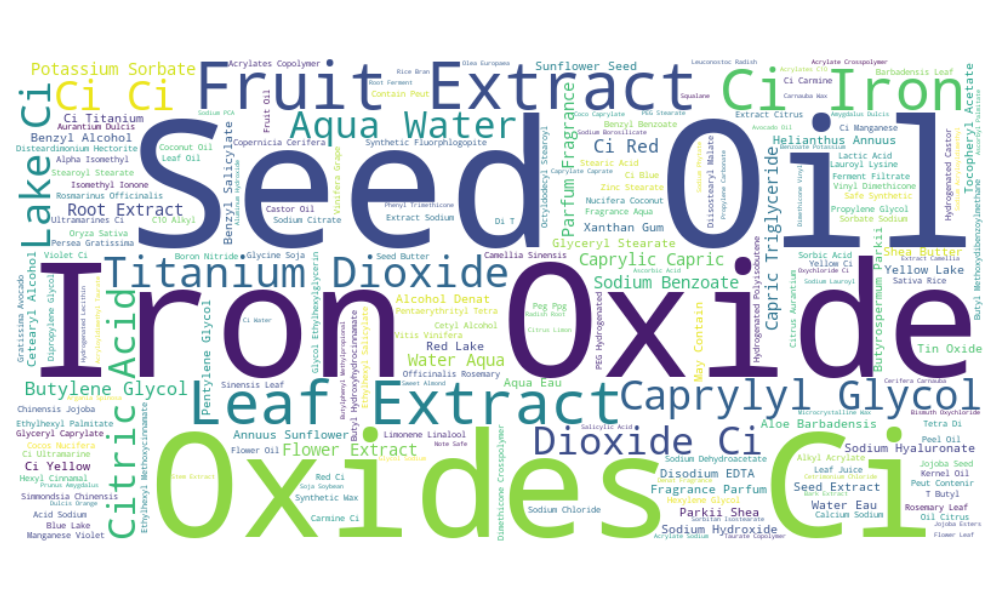
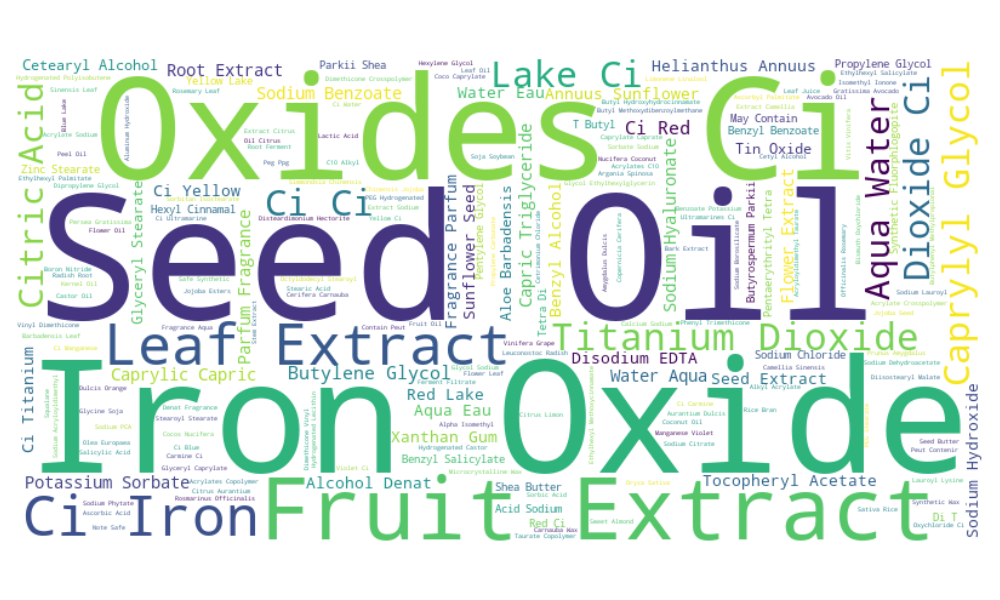
streamlit

diff --git a/main.py b/main.py
@@ -9,6 +9,7 @@ from plotly import colors
 
 # Cargar datos (asumiendo que el archivo "product_info.csv" se encuentra en el mismo directorio)
 data = pd.read_csv("product_info.csv")
+reviews = pd.read_csv("reviews.csv")
 
 # Establecer título de la página
 st.set_page_config(page_title="Sistema de Recomendación Sephora")
@@ -28,9 +29,11 @@ nav_selection = sidebar.radio("Navegación", nav_options)
 
 # Pagina 1 = Home
 if nav_selection == "Home":
-    st.header('Sistema de recomendación de productos',)
-    st.markdown('Encontramos tu próximo producto ideal.')
-    st.image('img_seph.png', width=800)
+    st.title('Recomendación de productos',)
+    st.write('*¡Bienvenido a nuestro sitio de recomendaciones personalizadas de Sephora!*')
+    st.image('labiales.jpeg', width=800)
+    st.write('Descubre productos que se adaptan perfectamente a tus gustos y necesidades con nuestro sistema de recomendación avanzado. ')
+    
 
     st.header('Problemática y objetivos')
     st.markdown('¿Cansado de perderte en el mar de productos de belleza? Analizamos tu historial y preferencias para ofrecerte sugerencias personalizadas.')
@@ -43,39 +46,41 @@ if nav_selection == "Home":
     st.markdown('Para este proyecto se utiliza una base de 8494 productos y 1.094.411 reviews que realizaron usuarios acerca de los mismos.')
     st.markdown("A continuación podemos ver cómo se componen los set de datos utilizados:")
     st.dataframe(data.head())
+    st.dataframe(reviews.head())
     
 
     # Description of the columns for "Products" table
-    st.subheader("Descripción de las columnas - Productos")
-    st.markdown("\n **product_id** : The unique identifier for the product from the site")
-    st.markdown("\n **product_name** : The full name of the product")
-    st.markdown("\n **brand_id** : The unique identifier for the product brand from the site")
-    st.markdown("\n **brand_name** : The full name of the product brand")
-    st.markdown("\n **loves_count** : The number of people who have marked this product as a favorite")
-    st.markdown("\n **rating** : The average rating of the product based on user reviews")
-    st.markdown("\n **reviews** : The number of user reviews for the product")
-    st.markdown("\n **size** : The size of the product, which may be in oz, ml, g, packs, or other units depending on the product type")
-    st.markdown("\n **variation_type** : The type of variation parameter for the product (e.g. Size, Color)")
-    st.markdown("\n **variation_value** : The specific value of the variation parameter for the product (e.g. 100 mL, Golden Sand)")
-    st.markdown("\n **variation_desc** : A description of the variation parameter for the product (e.g. tone for fairest skin)")
-    st.markdown("\n **ingredients** : A list of ingredients included in the product, for example: [‘Product variation 1:’, ‘Water, Glycerin’, ‘Product variation 2:’, ‘Talc, Mica’] or if no variations [‘Water, Glycerin’]")
-    st.markdown("\n **price_usd** : The price of the product in US dollars")
-    st.markdown("\n **value_price_usd** : The potential cost savings of the product, presented on the site next to the regular price")
-    st.markdown("\n **sale_price_usd** : The sale price of the product in US dollars")
-    st.markdown("\n **limited_edition** : Indicates whether the product is a limited edition or not (1-true, 0-false)")
-    st.markdown("\n **new** : Indicates whether the product is new or not (1-true, 0-false)")
-    st.markdown("\n **online_only** : Indicates whether the product is only sold online or not (1-true, 0-false)")
-    st.markdown("\n **out_of_stock** : Indicates whether the product is currently out of stock or not (1 if true, 0 if false)")
-    st.markdown("\n **sephora_exclusive** : Indicates whether the product is exclusive to Sephora or not (1 if true, 0 if false)")
-    st.markdown("\n **highlights** : A list of tags or features that highlight the product's attributes (e.g. [‘Vegan’, ‘Matte Finish’])")
-    st.markdown("\n **primary_category** : First category in the breadcrumb section")
-    st.markdown("\n **secondary_category** : Second category in the breadcrumb section")
+    st.subheader("Descripción de las columnas - Products")
+    st.markdown("\n *product_id* : The unique identifier for the product from the site")
+    st.markdown("\n *product_name* : The full name of the product")
+    st.markdown("\n *brand_id* : The unique identifier for the product brand from the site")
+    st.markdown("\n *brand_name* : The full name of the product brand")
+    st.markdown("\n *loves_count* : The number of people who have marked this product as a favorite")
+    st.markdown("\n *rating* : The average rating of the product based on user reviews")
+    st.markdown("\n *reviews* : The number of user reviews for the product")
+    st.markdown("\n *size* : The size of the product, which may be in oz, ml, g, packs, or other units depending on the product type")
+    st.markdown("\n *variation_type* : The type of variation parameter for the product (e.g. Size, Color)")
+    st.markdown("\n *variation_value* : The specific value of the variation parameter for the product (e.g. 100 mL, Golden Sand)")
+    st.markdown("\n *variation_desc* : A description of the variation parameter for the product (e.g. tone for fairest skin)")
+    st.markdown("\n *ingredients* : A list of ingredients included in the product, for example: [‘Product variation 1:’, ‘Water, Glycerin’, ‘Product variation 2:’, ‘Talc, Mica’] or if no variations [‘Water, Glycerin’]")
+    st.markdown("\n *price_usd* : The price of the product in US dollars")
+    st.markdown("\n *value_price_usd* : The potential cost savings of the product, presented on the site next to the regular price")
+    st.markdown("\n *sale_price_usd* : The sale price of the product in US dollars")
+    st.markdown("\n *limited_edition* : Indicates whether the product is a limited edition or not (1-true, 0-false)")
+    st.markdown("\n *new* : Indicates whether the product is new or not (1-true, 0-false)")
+    st.markdown("\n *online_only* : Indicates whether the product is only sold online or not (1-true, 0-false)")
+    st.markdown("\n *out_of_stock* : Indicates whether the product is currently out of stock or not (1 if true, 0 if false)")
+    st.markdown("\n *sephora_exclusive* : Indicates whether the product is exclusive to Sephora or not (1 if true, 0 if false)")
+    st.markdown("\n *highlights* : A list of tags or features that highlight the product's attributes (e.g. [‘Vegan’, ‘Matte Finish’])")
+    st.markdown("\n *primary_category* : First category in the breadcrumb section")
+    st.markdown("\n *secondary_category* : Second category in the breadcrumb section")
 #####################################################################################################################################
 
 
 # Pagina 2 = Graficos
 elif nav_selection == 'Visualizando los datos':
     st.title('Visualizando los datos')
+    st.image('IMG_1634-scaled.png', width=800)
 
     custom_palette = ['#FFC0CB', '#FFB6C1', '#FF69B4', '#FF1493', '#DB7093', '#FFB5C5', '#FFAEB9', '#FF82AB', '#FF34B3']
 
@@ -94,7 +99,7 @@ elif nav_selection == 'Visualizando los datos':
         fig.update_layout(xaxis_title='Count', yaxis_title='Category', yaxis={'categoryorder':'total ascending'})
         return fig
     
-    st.title('Gráfico de Categorías Principales')
+    st.title('Categorías de productos')
     fig = create_primary_category_chart(data)
     st.plotly_chart(fig)
 
@@ -119,7 +124,7 @@ elif nav_selection == 'Visualizando los datos':
     st.plotly_chart(fig)
         # Calcular la correlación
     correlation = data['rating'].corr(data['loves_count'])
-    st.markdown(f"**Correlation between rating and loves_count:** {correlation:.2f}")
+    st.markdown(f"*Correlation between rating and loves_count:* {correlation:.2f}")
     st.markdown('A medida que el rating aumenta, el "Loves Count" también tiende a aumentar. Existe una tendencia ascendente clara: los productos con ratings más altos tienden a ser agregados a favoritos con mayor frecuencia. Esto sugiere una correlación positiva entre el rating de un producto y cuántas veces es agregado a favoritos.')
 
     #3
@@ -131,8 +136,7 @@ elif nav_selection == 'Visualizando los datos':
                             )
 
         fig.update_layout(xaxis_title='Rating', yaxis_title='Frequency')
-        fig.update_traces(marker_line_color='black', marker_line_width=1)
-
+        fig.update_traces(marker_line_color='white', marker_line_width=1)
         return fig
     
     st.title('Histograma de Ratings')
@@ -141,26 +145,7 @@ elif nav_selection == 'Visualizando los datos':
     mean_rating = data['rating'].mean()
     st.write(f"Mean Rating: {mean_rating:.2f}")
 
-
-    #4 
-    def create_countplot(data):
-        plt.figure(figsize=(8, 4))
-        custom_palette = ['#FFC0CB', '#D8BFD8']
-        sns.countplot(x='new', hue='sephora_exclusive', data=data,  palette=custom_palette)
-        plt.xlabel('Nuevo Producto')
-        plt.ylabel('Cantidad')
-        plt.title('Nuevos productos exclusivos de Sephora')
-        plt.legend(title='Sephora Exclusive', loc='upper right')
-        plt.tight_layout()
-        return plt
-
-
-    st.title('Nuevos productos exclusivos de Sephora')
-    fig = create_countplot(data)
-    st.pyplot(fig)
-
-
-    #5
+     #4
     def create_sephora_exclusive_chart(data):
 
         df_exclusive = data[data['sephora_exclusive'] == True]
@@ -186,11 +171,12 @@ elif nav_selection == 'Visualizando los datos':
         return fig
 
 
-    st.title('Productos Exclusivos y No Exclusivos')
+    st.title('Productos exclusivos de Sephora')
     fig = create_sephora_exclusive_chart(data)
     st.plotly_chart(fig)
 
-    #6
+
+ #6
 
     def create_online_only_chart(data):
         df_online_only = data[data['online_only'] == True]
@@ -216,7 +202,7 @@ elif nav_selection == 'Visualizando los datos':
         return fig
 
 
-    st.title('Productos Online y No Online')
+    st.title('Productos exclusivamente online')
     fig = create_online_only_chart(data)
     st.plotly_chart(fig)
 
@@ -227,7 +213,7 @@ elif nav_selection == 'Visualizando los datos':
 
         st.write("### Ejemplos de productos exclusivamente online:")
         for index, row in productos_exclusivos_online.iterrows():
-            st.write(f"**{row['product_name']}** - {row['brand_name']}")
+            st.write(f"*{row['product_name']}* - {row['brand_name']}")
     show_online_only_products(data)
 
 
@@ -269,21 +255,8 @@ elif nav_selection == 'Visualizando los datos':
 
 #nube de palabras
    
-
-
-   
-    ingredients_text = ' '.join(data['ingredients'].dropna())
-    wordcloud = WordCloud(width=800, height=400, background_color='white').generate(ingredients_text)
-
-    plt.figure(figsize=(10, 6))
-    plt.imshow(wordcloud, interpolation='bilinear')
-    plt.axis('off')
-    st.title('Nube de palabras de Ingredientes')
-    plt.tight_layout()
-    plt.show()
-
-    plt.savefig('images\word_cloud.png')
-    st.image('images\word_cloud.png')
+    st.title('Ingredientes más utilizados')
+    st.image('nube.png')
     
     ingredientes_repetidos = [
     "Aceite de Semilla (Seed Oil)",
@@ -297,9 +270,32 @@ elif nav_selection == 'Visualizando los datos':
     ]
 
 
-    st.subheader('Ingredientes más utilizados:')
-
-
     for ingrediente in ingredientes_repetidos:
         st.write(f"- {ingrediente}")
 
+    st.title('Marcas de lujo')
+# Pagina 3 = Comparación de modelos
+
+elif nav_selection == 'Modelo':
+    def model_backstage():
+        st.title('Construcción del modeo')
+        st.write('Esta sección explica el trabajo realizado sobre los datos y los pasos que se realizaron para construir el modelo.')
+        
+    
+        st.header('1. Preprocesamiento')
+
+        st.subheader('Tratamiento de nulos y valores faltantes')
+        st.write('Fue necesario realizar un proceso detallado de limpieza de los datos, ya que el dataset original contenía valores faltantes o incorrectos en columnas importantes para el armado del modelo.')
+        st.write('Eliminamos las columnas con más de un 60 porciento de valores faltantes: sale_price_usd, value_price_usd, variation_desc, child_max_price, child_min_price')
+        st.write('La columna size estaba escrita en onzas y en ml. Unificamos para que todo estuviera en oz.')
+        
+    model_backstage()
+
+elif nav_selection == 'Recomendaciones':
+    def encontra_producto():
+        st.title('Otros productos que podrían interesarte')
+        
+        options = ['Elegí un producto'] + data['product_name'].tolist()
+        selected_product_name = st.selectbox("Elegí un producto que te haya gustado", options, index=0)
+        st.image('img_seph.png')
+    encontra_producto()
